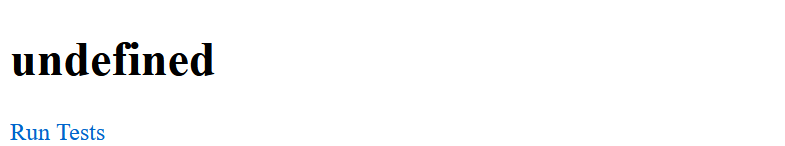
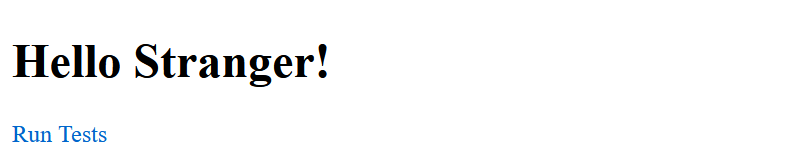
1. Added some clarifications to hello world exercise. 2. Started re-working About page

Changed region(s): [[0.0, 0.274, 0.428, 0.5753], [0.0, 0.7945, 0.1529, 0.9589]]

diff --git a/src/lib/components/Lesson.svelte b/src/lib/components/Lesson.svelte
@@ -4,7 +4,6 @@
 	import Author from '$lib/components/Author.svelte';
 
 	export let lesson;
-	export let author;
 </script>
 
 <div class="mx-auto max-w-3xl px-4 sm:px-6 xl:max-w-5xl xl:px-0">
@@ -40,18 +39,6 @@
 				class="divide-y divide-gray-200 pb-8 dark:divide-gray-700 xl:grid xl:grid-cols-4 xl:gap-x-6 xl:divide-y-0"
 				style="grid-template-rows: auto 1fr;"
 			>
-				<!-- <dl class="pt-6 pb-10 xl:border-b xl:border-gray-200 xl:pt-11 xl:dark:border-gray-700">
-					<dt class="sr-only">Authors</dt>
-					<dd>
-						<ul
-							class="flex justify-center space-x-8 sm:space-x-12 xl:block xl:space-x-0 xl:space-y-8"
-						>
-							<li class="flex items-center space-x-2">
-								<Author author={author.name} avatar={author.avatar} twitter={author.twitter} />
-							</li>
-						</ul>
-					</dd>
-				</dl> -->
 				<div class="divide-y divide-gray-200 dark:divide-gray-700 xl:col-span-3 xl:row-span-2 xl:pb-0">
 					<div class="prose max-w-none pt-10 pb-8 dark:prose-dark">
 						{@html lesson.content}

diff --git a/src/routes/about/+page.svelte b/src/routes/about/+page.svelte
@@ -34,6 +34,14 @@
 			</div> -->
 		</div>
 		<div class="prose max-w-none pt-8 pb-8 dark:prose-dark xl:col-span-2">
+			<!-- <p>Two decades ago I was a fresh college student determining which of my passions to pursue.
+				One of the paths I left behind was teaching.
+			</p>
+
+			<p>
+
+			</p> -->
+
 			<!-- <p>
 				Dummy Daniel started as an initiative to tackle gatekeeping and imposter
 				syndrome within the software community. I have been in the software industry for 10+ years and

diff --git a/content/lessons/Hello World.md b/content/lessons/Hello World.md
@@ -10,16 +10,33 @@ image:
 href: http://www.dummydaniel.com
 author: Dummy Daniel
 ---
-# Our First Program
+# Hello World
 A traditional first step in software programming is to write a "Hello World" program. It is one of the easiest programs you can write in any language and it demonstrates what is often a core goal of software, to display information to a user.
 
 With many languages it also introduces you to compiling your code and the tools you will work with. With Javascript, we get to skip past all of that since it will run directly in your browser!
 
-Hold `Ctrl` and click this [link](https://stackblitz.com/edit/dd10-exercises?file=hello-world%2Fhello-world.js) to open up a new tab with an IDE set up with a list of exercises.
+Hold `Ctrl` and click this [link](https://stackblitz.com/edit/dd10-exercises?file=hello-world%2Fhello-world.js) to open up a new tab with a development environment set up. You will see a list of exercises like this in the right-most panel.
 
-Click into the `Hello World` exercise and you'll be presented with a preview that looks like the following.
+<figure>
+  <img style="border: solid .5px;" src="/assets/preview-panel-exercise-list.png" alt="List of coding exercises" />
+  <figcaption>Right - Exercise List</figcaption>
+</figure>
 
-![Preview of Hello World App before changes](/assets/hello-world-preview.png)
+Click into the `Hello World` exercise in the preview panel and you'll be presented with an editor and a preview that looks like the following.
+
+<figure>
+  <img style="border: solid .5px;" src="/assets/hello-world-js.png" alt="Stackblitz code editor" />
+  <figcaption>Left - Code Editor</figcaption>
+</figure>
+
+<figure>
+  <img style="border: solid .5px;" src="/assets/hello-world-preview.png" alt="Preview of Hello WorldApp before changes" />
+  <figcaption>Right - Preview Panel</figcaption>
+</figure>
+
+Follow along with the instructions in this guide to make changes to the code editor to display 'Hello World!'.
+
+# Edit the function helloWorld()
 
 Often, the goal of hello world is to print 'Hello World!' via native methods in the language.
 
@@ -35,11 +52,11 @@ The desired statement should follow this form.
 
 There are three parts to this statement.
 
-1. return - Return tells the javascript interpreter to 'return' the information to the right of the return keyword. Later we will see that statements in programming often flow from left to right, where we first supply the operator or function, then the piece of data we want to operate on.
+1. **return** - Return tells the javascript interpreter to 'return' the information to the right of the return keyword. Later we will see that statements in programming often flow from left to right, where we first supply the operator or function, then the piece of data we want to operate on.
 
-2. string - the information we want to operate on.
+2. **string** - the information we want to operate on.
 
-3. semi-colon - The semi-colon `;` is subtle but an important piece of syntax. Semi-colons are a divider to signal that we are finished with one statement so it can process another.
+3. **semi-colon** - The semi-colon `;` is subtle but an important piece of syntax. Semi-colons are a divider to signal that we are finished with one statement so it can process another.
 
 Don't get too caught up in where we're returning to for now, that will be explained later in discussing functions.
 
@@ -51,7 +68,7 @@ Here is an example of how we would return my name instead.
 
 When you have substituted 'Hello World' appropriately, the preview should look like the following.
 
-![Preview of Hello World App after changes](/assets/hello-world-preview-after.png)
+<img style="border: solid .5px;" src="/assets/hello-world-preview-after.png" alt="Preview of Hello WorldApp after changes" />
 
  # Tests
 
